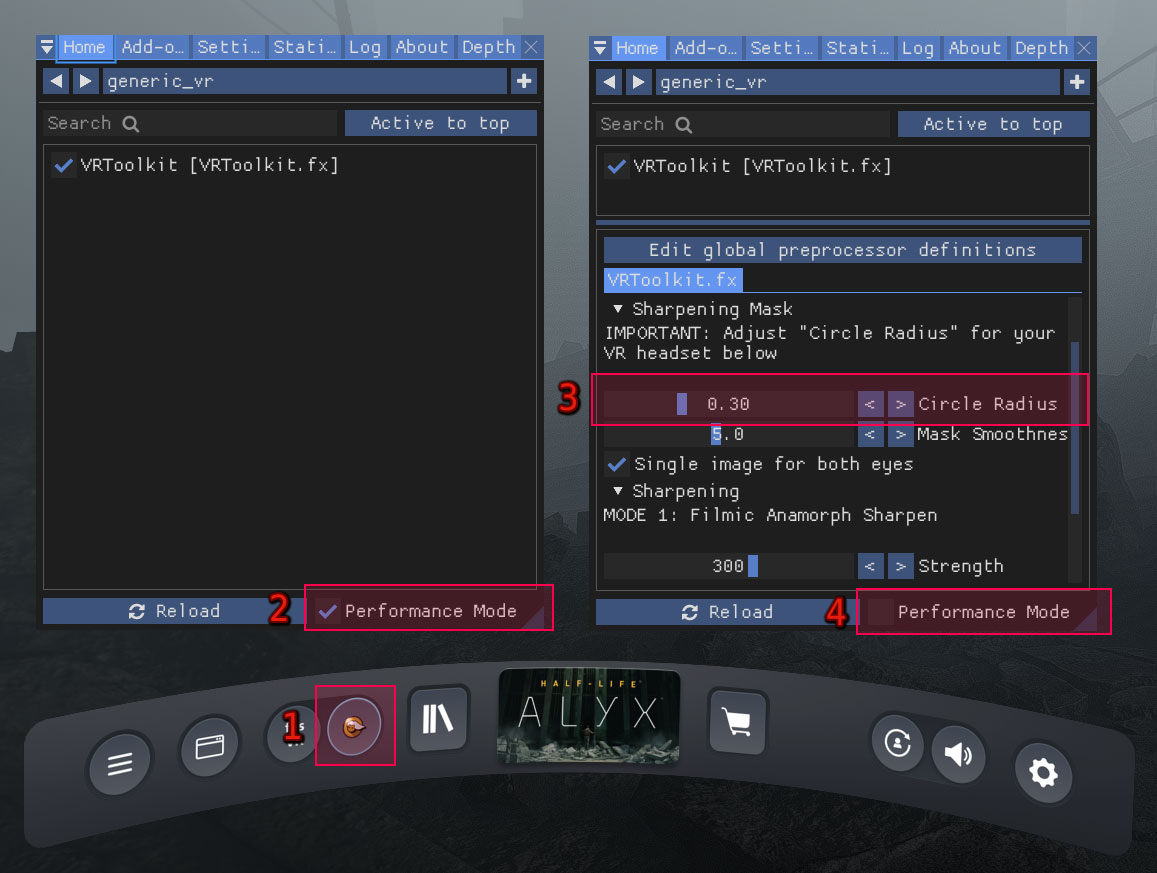
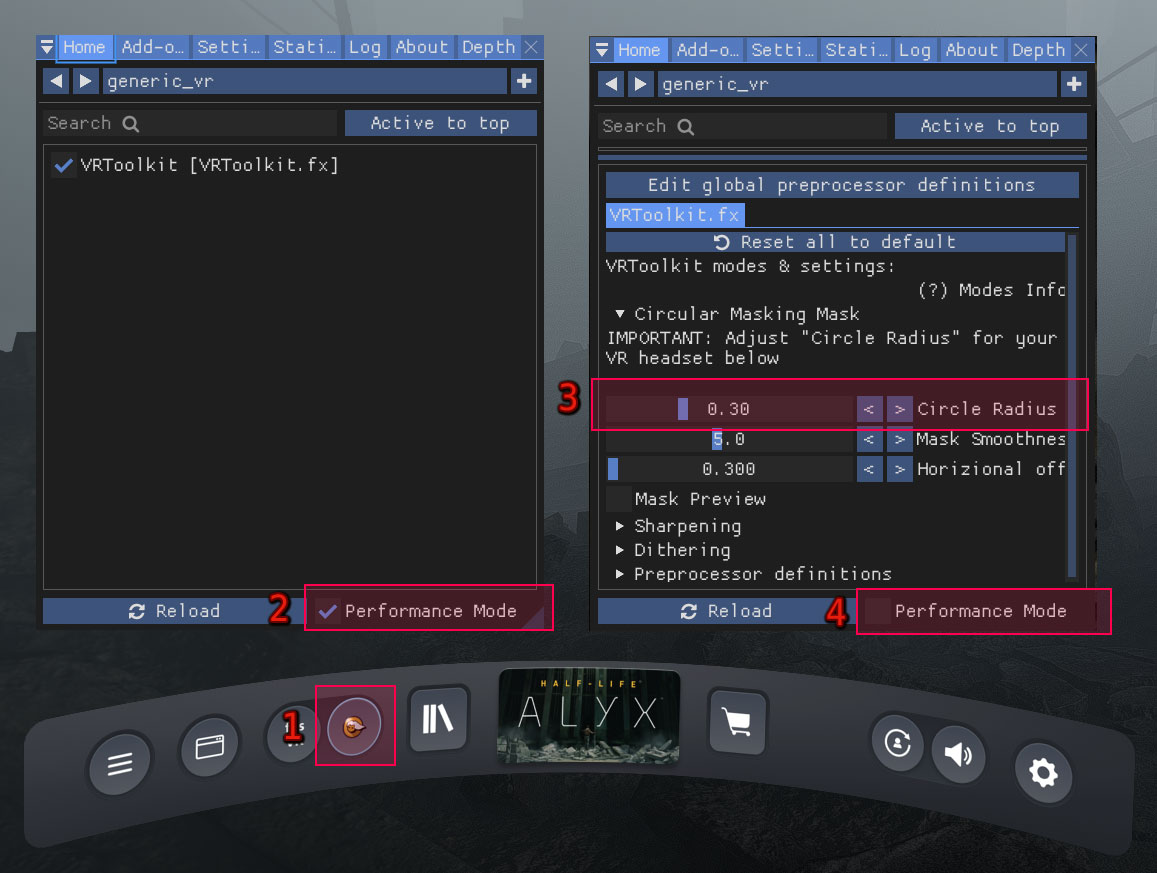
Updated documentation for next 0.93-preview release

Changed region(s): [[0.4978, 0.0309, 0.9646, 0.7113], [0.9334, 0.7113, 0.9646, 0.7423]]

diff --git a/docs/configuration.md b/docs/configuration.md
@@ -8,24 +8,24 @@ Configuration
 
 1. Open the `SteamVR Dashboard` and click on the ReShade Settings button.
 2. Un-tick `"Performance Mode"` checkbox to see the settings of the VRToolkit.
-3. Use your VR pointer to Adjust the [Circle Radius](#circle-radius) matching your HMD field of view sweet spot and to your personal view range.
+3. Use your VR pointer to Adjust the [Circle Mask](#circle-mask) matching your HMD field of view sweet spot and to your personal view range.
 4. Re-enable `"Performance Mode"` when done.
 
 ![HMD Configuration](./assets/images/vrtoolkit_config.jpg "HMD Configuration")
 
-### Circle Radius
-Keep the radius as small as possible to conserve GPU time, but as well not to small to not loose sharpness. 
+### Circle Mask
+Keep the radius as small as possible to conserve GPU time, but as well not to small to not loose sharpness.
+In addition some HMDs need an offset correction like the Pimax to fit the sweet spot better.
 
 You can use the Recommended settings below as a good staring point.
-A trick to see the mask better is to enable the `"Preview Sharpen Layer"` checkbox 
-under sharpening settings when using mode 1
+Use the `"Mask Preview"` checkbox to see the circle mask in cyan color for easier setup.  
 
-|  VR Headset (HMD)                      | Circle Radius |
-| -------------------------------------- | ------------- |
-| Valve Index                            |  0.30 to 0.35 |
-| Oculus Quest1                          |  0.30 to 0.35 |
-| HP G1 & G2                             |  0.41 to 0.46 |
-| Pimax 5k Large FOV, No PP              |  +- 0.75      |
+|  VR Headset (HMD)                      | Circle Radius | Horizontal Offset  |
+| -------------------------------------- |:-------------:| :-----------------:|
+| Valve Index                            |  0.30 to 0.35 | 0.3                |
+| Oculus Quest1                          |  0.30 to 0.35 | 0.3                |
+| HP G1 & G2                             |  0.41 to 0.46 | 0.3                |
+| Pimax 5k Large FOV, No PP              |  +- 0.75      | ?                  |
 
 
 ## Configure Preset 

diff --git a/docs/index.md b/docs/index.md
@@ -12,6 +12,7 @@ to enhance the clarity & sharpness in VR to get most out of your HMD while keepi
 - Sharpening Modes for enhanced clarity while only processing the pixels that are in the sweet spot of your HMD
 - Color Correction Modes to be able to adjust your HMD colors & contrast to your liking
 - Dithering to reduce banding effects of gradients and sharpening artifacts
+- Antialiasing option to reduce aliasing/shimmering effects when the in game AA modes are not enough
 - All modules are processed in a single render pass post shader to improve performance instead of having them all separate
 
 *Note: ReShade currently only works on games run through SteamVR. (OpenVR API)*
@@ -19,17 +20,17 @@ to enhance the clarity & sharpness in VR to get most out of your HMD while keepi
 
 ### 100% Crop Comparision:
 Check out in full screen to see the difference better.
-(Still its not comparable as it looks in VR)
+(Still its not comparable as how much better it looks in VR)
 
 #### Half Life Alyx
-begining scene that shows a crop of the center of the left eye.
+Beginning scene that shows a crop of the center of the left eye.
 
 ![100% Crop Alyx](./assets/images/vrtoolkit_comparision_alyx_crop.jpg "100% Crop Alyx")
 **Left:** Original **Right:** VRToolkit 
 
 [Show Full Image](./assets/images/vrtoolkit_comparision_alyx_full.jpg)
 
-#### Automobilista VR
+#### Automobilista VR MOD
 Adelaide 1988 Racetrack Dequetteville Hairpin
 
 ![100% Crop Automobilista](./assets/images/vrtoolkit_comparision_ams_crop.jpg "100% Crop Automobilista")
